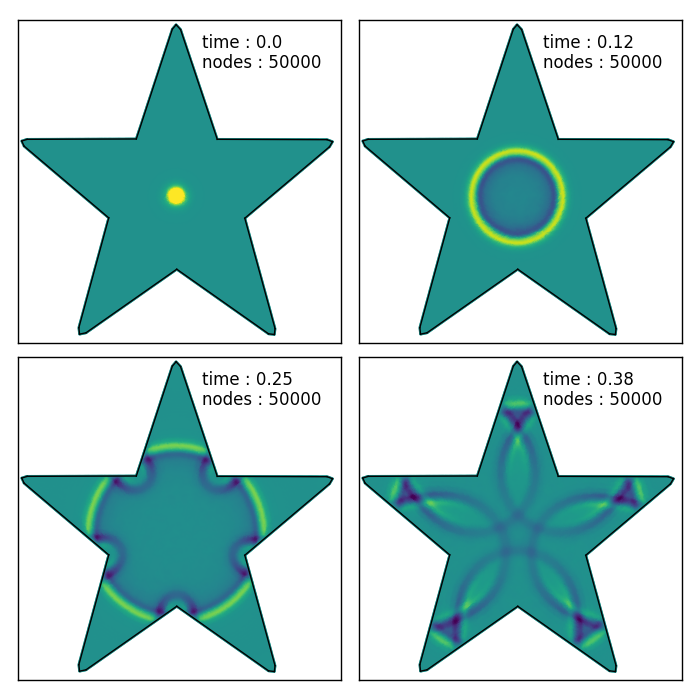
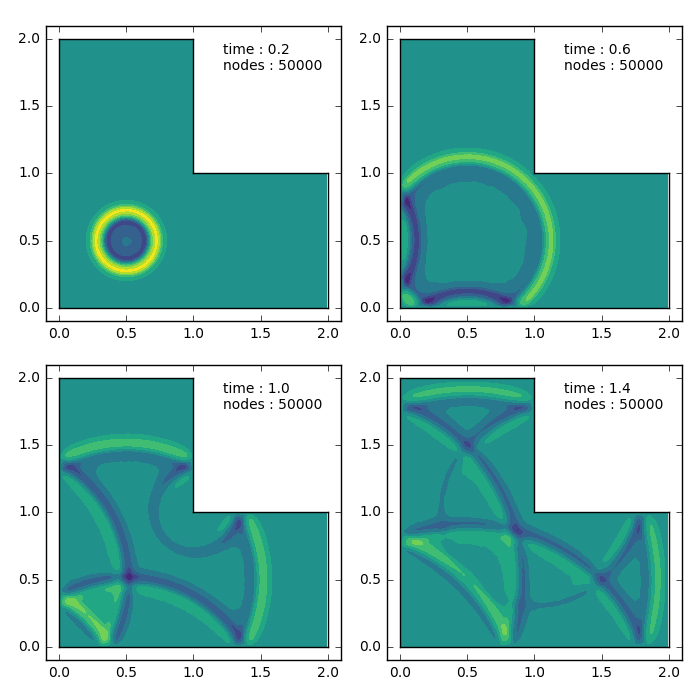
changed wave eq demo

diff --git a/docs/scripts/fd.a.py b/docs/scripts/fd.a.py
@@ -1,46 +1,51 @@
 ''' 
-In this script we solve the 2-d wave equation with a RBF-FD scheme
+In this script we solve the 2-d wave equation over an L-shaped domain 
+with a RBF-FD scheme.
 '''
 import numpy as np
 from rbf.fd import weight_matrix
 from rbf.nodes import menodes
+from rbf.geometry import contains
 import matplotlib.pyplot as plt
+from scipy.interpolate import griddata
 
 # define the problem domain
-vert = np.array([[0.762,0.057],[0.492,0.247],[0.225,0.06 ],[0.206,0.056],
-                 [0.204,0.075],[0.292,0.398],[0.043,0.609],[0.036,0.624],
-                 [0.052,0.629],[0.373,0.63 ],[0.479,0.953],[0.49 ,0.966],
-                 [0.503,0.952],[0.611,0.629],[0.934,0.628],[0.95 ,0.622],
-                 [0.941,0.607],[0.692,0.397],[0.781,0.072],[0.779,0.055]])
-smp = np.array([[0,1],[1,2],[2,3],[3,4],[4,5],[5,6],[6,7],[7,8],[8,9],
-                [9,10],[10,11],[11,12],[12,13],[13,14],[14,15],[15,16],
-                [16,17],[17,18],[18,19],[19,0]])
-dt = 0.000025 # time step size
+vert = np.array([[0.0,0.0],[2.0,0.0],[2.0,1.0],
+                 [1.0,1.0],[1.0,2.0],[0.0,2.0]])
+smp = np.array([[0,1],[1,2],[2,3],[3,4],[4,5],[5,0]])
+dt = 0.001 # time step size
 N = 50000 # total number of nodes
 nodes,smpid = menodes(N,vert,smp) # generate nodes
 boundary, = (smpid>=0).nonzero() # identify boundary nodes
 interior, = (smpid==-1).nonzero() # identify interior nodes
 D = weight_matrix(nodes[interior],nodes,[[2,0],[0,2]],n=30)
-r = np.linalg.norm(nodes-np.array([0.49,0.46]),axis=1)
-u_prev = 1.0/(1 + (r/0.015)**4) # create initial conditions
-u_curr = 1.0/(1 + (r/0.015)**4)
+r = np.linalg.norm(nodes-np.array([0.5,0.5]),axis=1)
+u_prev = 1.0/(1 + (r/0.05)**4) # create initial conditions
+u_curr = 1.0/(1 + (r/0.05)**4)
 fig,axs = plt.subplots(2,2,figsize=(7,7))
 axs = [axs[0][0],axs[0][1],axs[1][0],axs[1][1]]
-for i in range(15001):
+plot_steps = [200,600,1000,1400]
+for i in range(1401):
   u_next = dt**2*D.dot(u_curr) + 2*u_curr[interior] - u_prev[interior]
-  u_prev[:] = u_curr
+  u_prev[interior] = u_curr[interior]
   u_curr[interior] = u_next
-  if i in [0,5000,10000,15000]:  
-    ax = axs[[0,5000,10000,15000].index(i)]
-    p = ax.scatter(nodes[:,0],nodes[:,1],s=4,c=np.array(u_curr,copy=True),
-                   edgecolor='none',cmap='viridis',vmin=-0.15,vmax=0.15)
+  if i in plot_steps:  
+    # plot the solution at specified time steps
+    ax = axs[plot_steps.index(i)]
+    xg,yg = np.mgrid[0.0:2.0:400j,0:2.0:400j]
+    points = np.array([xg.ravel(),yg.ravel()]).T
+    ug = griddata(nodes,u_curr,(xg,yg),method='linear')
+    ug.ravel()[~contains(points,vert,smp)] = np.nan 
     for s in smp: ax.plot(vert[s,0],vert[s,1],'k-')
+    ax.contourf(xg,yg,ug,cmap='viridis',vmin=-0.2,vmax=0.2,
+                levels=np.linspace(-0.25,0.25,14))
     ax.set_aspect('equal')
-    ax.get_xaxis().set_visible(False);ax.get_yaxis().set_visible(False)
-    ax.set_xlim((0.025,0.975));ax.set_ylim((0.03,0.98))
-    ax.text(0.57,0.85,'time : %s\nnodes : %s' % (np.round(i*dt,2),N),
-            transform=ax.transAxes,fontsize=12)
-
+    ax.text(0.6,0.85,'time : %s\nnodes : %s' % (np.round(i*dt,3),N),
+            transform=ax.transAxes,fontsize=10)
+    ax.tick_params(labelsize=10)
+    ax.set_xlim(-0.1,2.1)
+    ax.set_ylim(-0.1,2.1)
+    
 plt.tight_layout()    
 plt.savefig('../figures/fd.a.png')
 plt.show()

diff --git a/docs/scripts/basis.a.py b/docs/scripts/basis.a.py
@@ -19,8 +19,8 @@ def neighbor_distance(x):
 # Define the problem domain. This is done by specifying the vertices 
 # of the domain, *vert*, and the vertex indices making up each 
 # segment, *smp*.
-vert = np.array([[0.0,0.0],[1.0,0.0],[1.0,0.5],
-                 [0.5,0.5],[0.5,1.0],[0.0,1.0]])
+vert = np.array([[0.0,0.0],[2.0,0.0],[2.0,1.0],
+                 [1.0,1.0],[1.0,2.0],[0.0,2.0]])
 smp = np.array([[0,1],[1,2],[2,3],[3,4],[4,5],[5,0]])
 N = 500 # total number of nodes
 nodes,smpid = menodes(N,vert,smp) # generate nodes
@@ -34,12 +34,12 @@ A[interior_idx] += mq(nodes[interior_idx],nodes,eps=eps,diff=[0,2])
 A[edge_idx] = mq(nodes[edge_idx],nodes,eps=eps)
 # create "right hand side" vector
 d = np.empty(N)
-d[interior_idx] = 1.0 # forcing term
+d[interior_idx] = -1.0 # forcing term
 d[edge_idx] = 0.0 # boundary condition
 # Solve for the RBF coefficients
 coeff = np.linalg.solve(A,d) 
 # interpolate the solution on a grid
-xg,yg = np.meshgrid(np.linspace(-0.05,1.05,400),np.linspace(-0.05,1.05,400))
+xg,yg = np.meshgrid(np.linspace(-0.05,2.05,400),np.linspace(-0.05,2.05,400))
 points = np.array([xg.flatten(),yg.flatten()]).T                    
 u = mq(points,nodes,eps=eps).dot(coeff) # evaluate at the interp points
 u[~contains(points,vert,smp)] = np.nan # mask outside points
